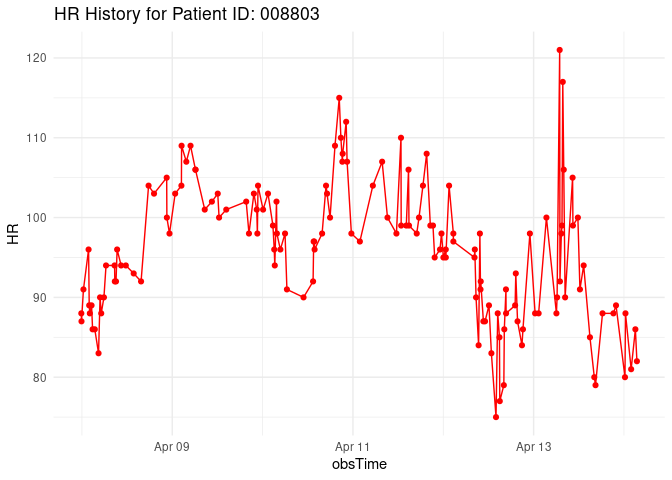
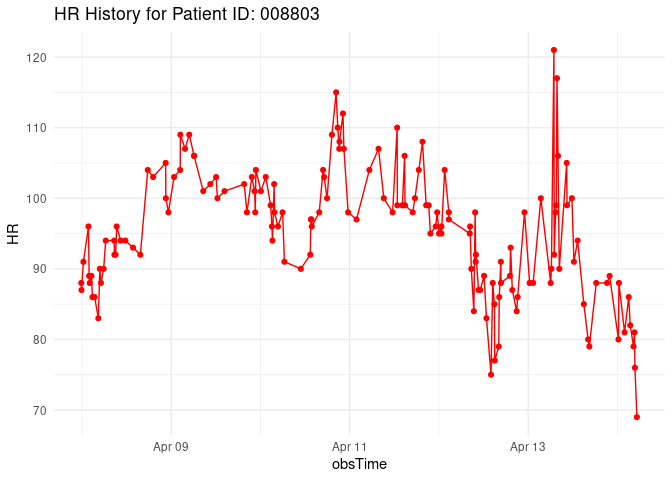
Updated report

diff --git a/sepsis_v2.md b/sepsis_v2.md
@@ -10,7 +10,7 @@ Sepsis Assignment
 
 #### The date and time of the report
 
-    Hello! The last time the report was run: 2023-04-14 04:16:50
+    Hello! The last time the report was run: 2023-04-14 05:14:07
 
 #### Recent heart rate, temperature, and respiratory rate for patients who currently have sepsis
 
@@ -32,7 +32,7 @@ table1
 |:-----------|-----------:|------:|------------:|:--------------------|
 | 000714     |         84 |    NA |          19 | 2023-04-08 17:48:46 |
 | 001948     |         84 |    NA |          25 | 2023-04-08 22:43:12 |
-| 008803     |         82 |    NA |          20 | 2023-04-14 03:26:33 |
+| 008803     |         69 |    NA |          21 | 2023-04-14 05:14:05 |
 | 009433     |         94 | 38.44 |          34 | 2023-04-10 09:36:59 |
 
 #### Plots for all patients who have sepsis that show the complete history of their heart rate, temperature, and respiratory rate during their time in the ICU.
@@ -215,7 +215,7 @@ mutate(prev_HR = lag(HR, order_by = obsTime),
 | 008574    |        NA |          NA |          NA |
 | 008614    |        -1 |          NA |           3 |
 | 008614    |        NA |          NA |          NA |
-| 008803    |        -4 |          NA |          -5 |
+| 008803    |        -7 |          NA |           2 |
 | 008803    |        NA |          NA |          NA |
 | 008882    |        -2 |          NA |           1 |
 | 008882    |        NA |          NA |          NA |
